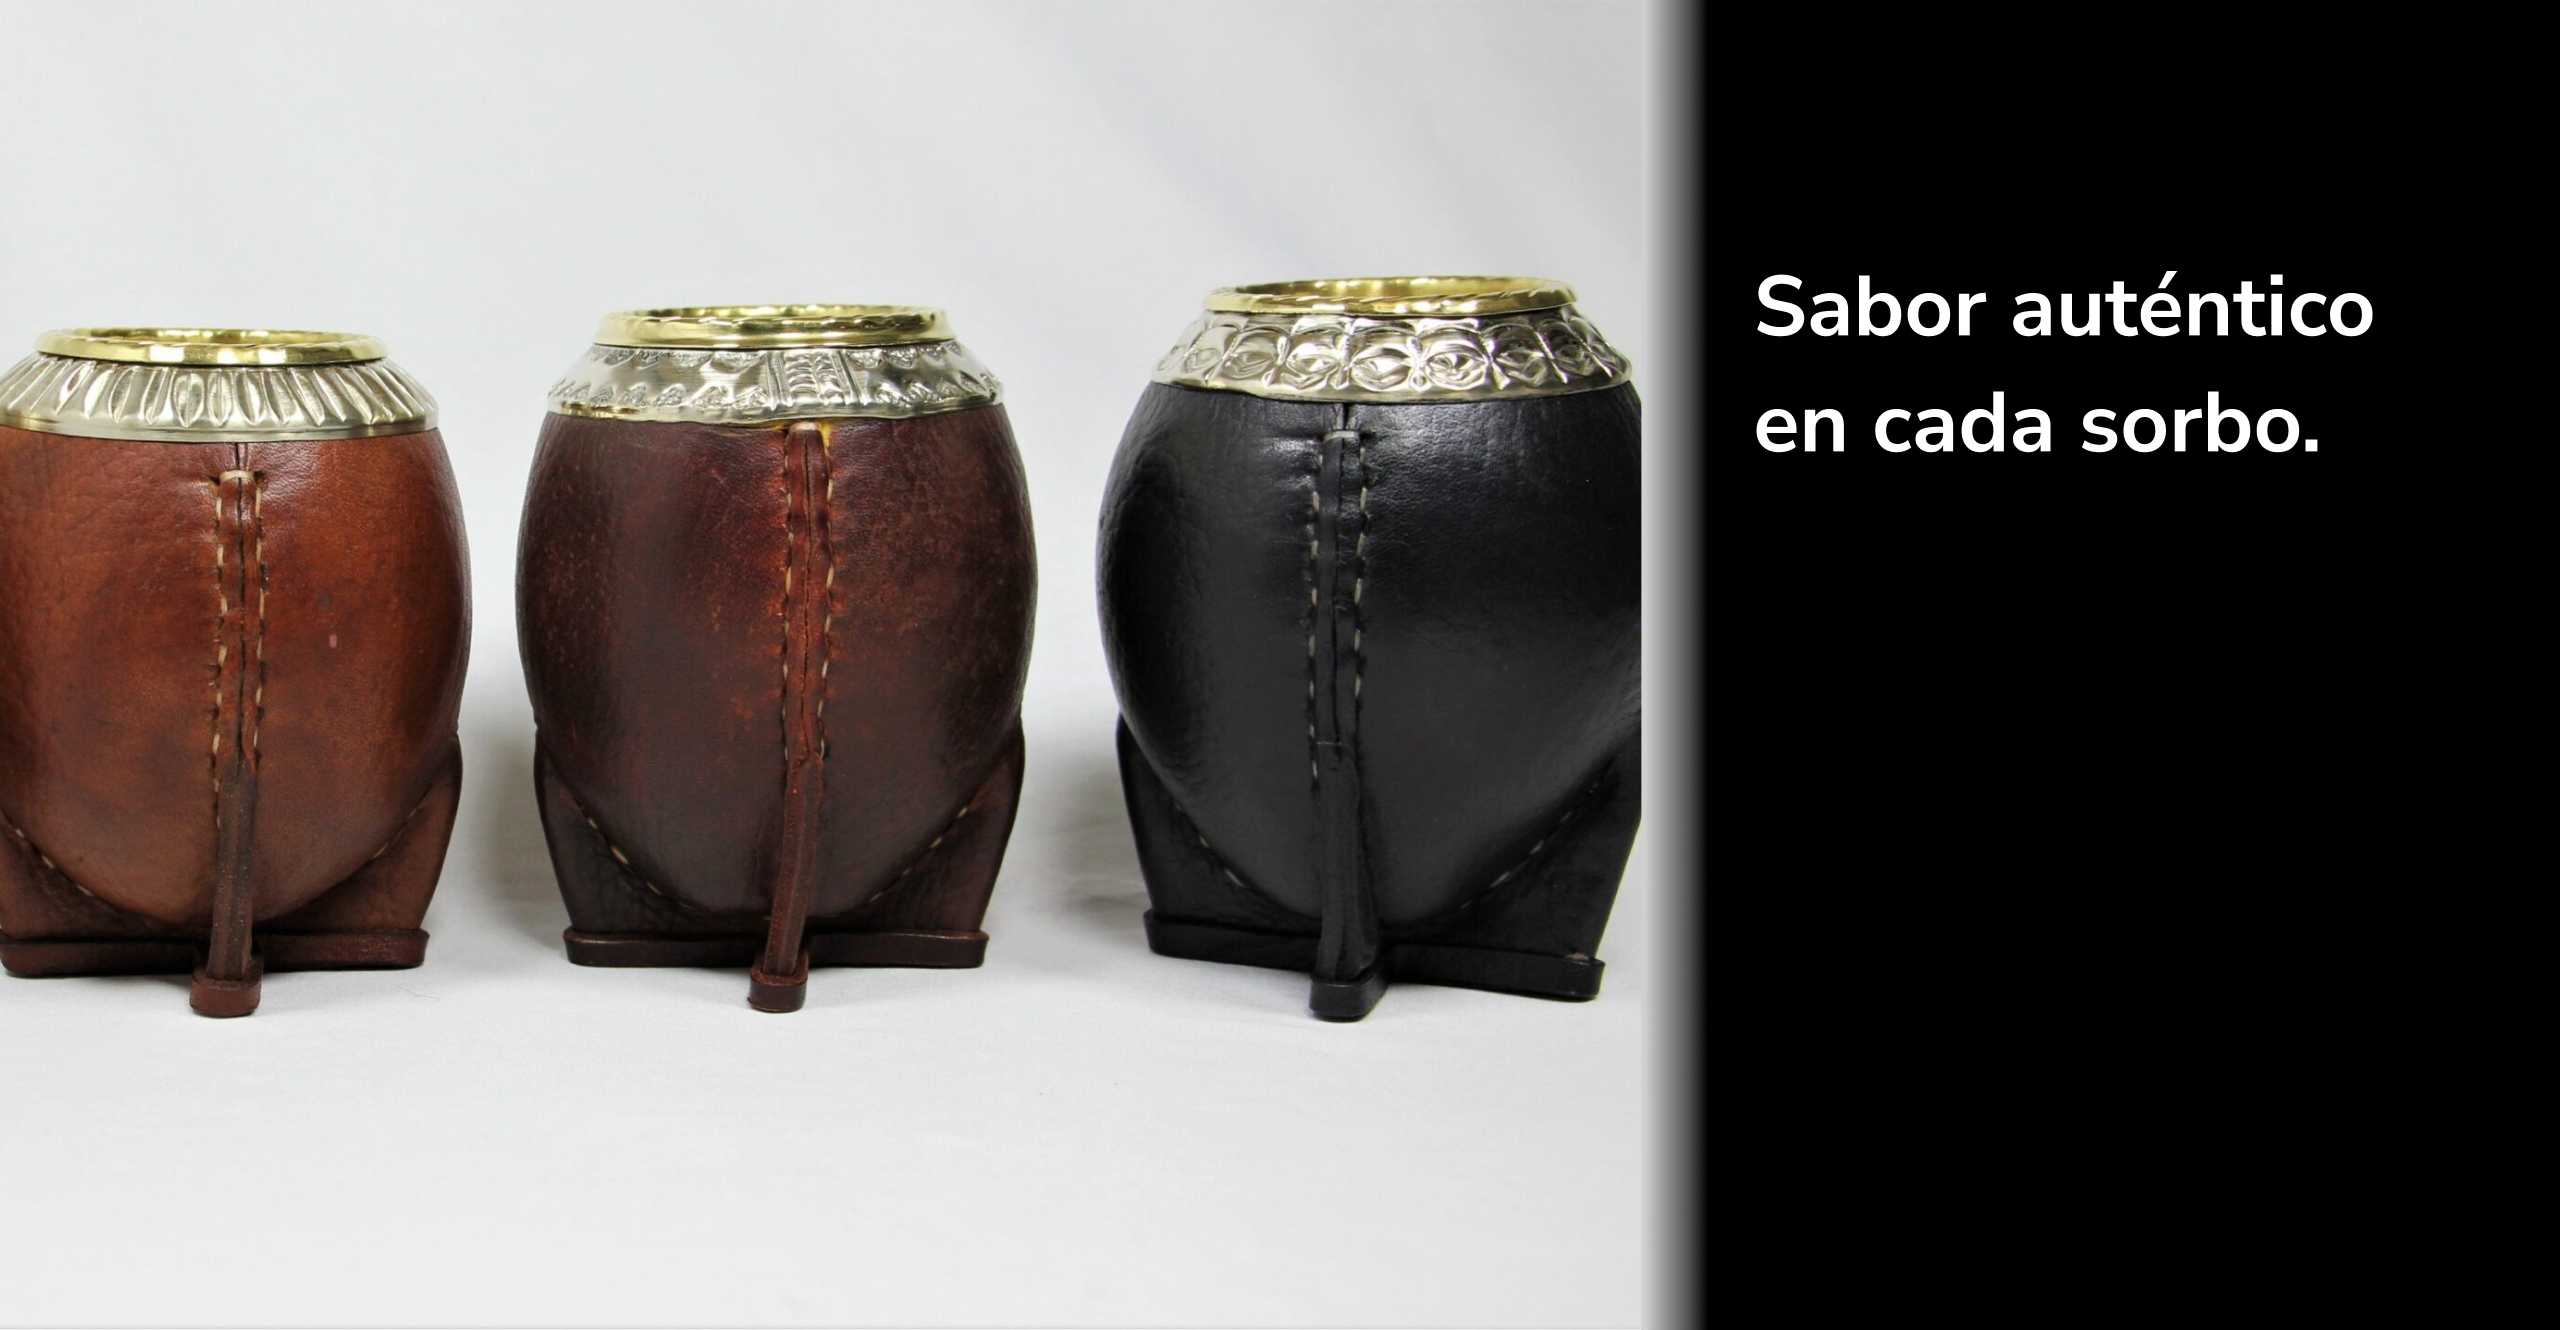
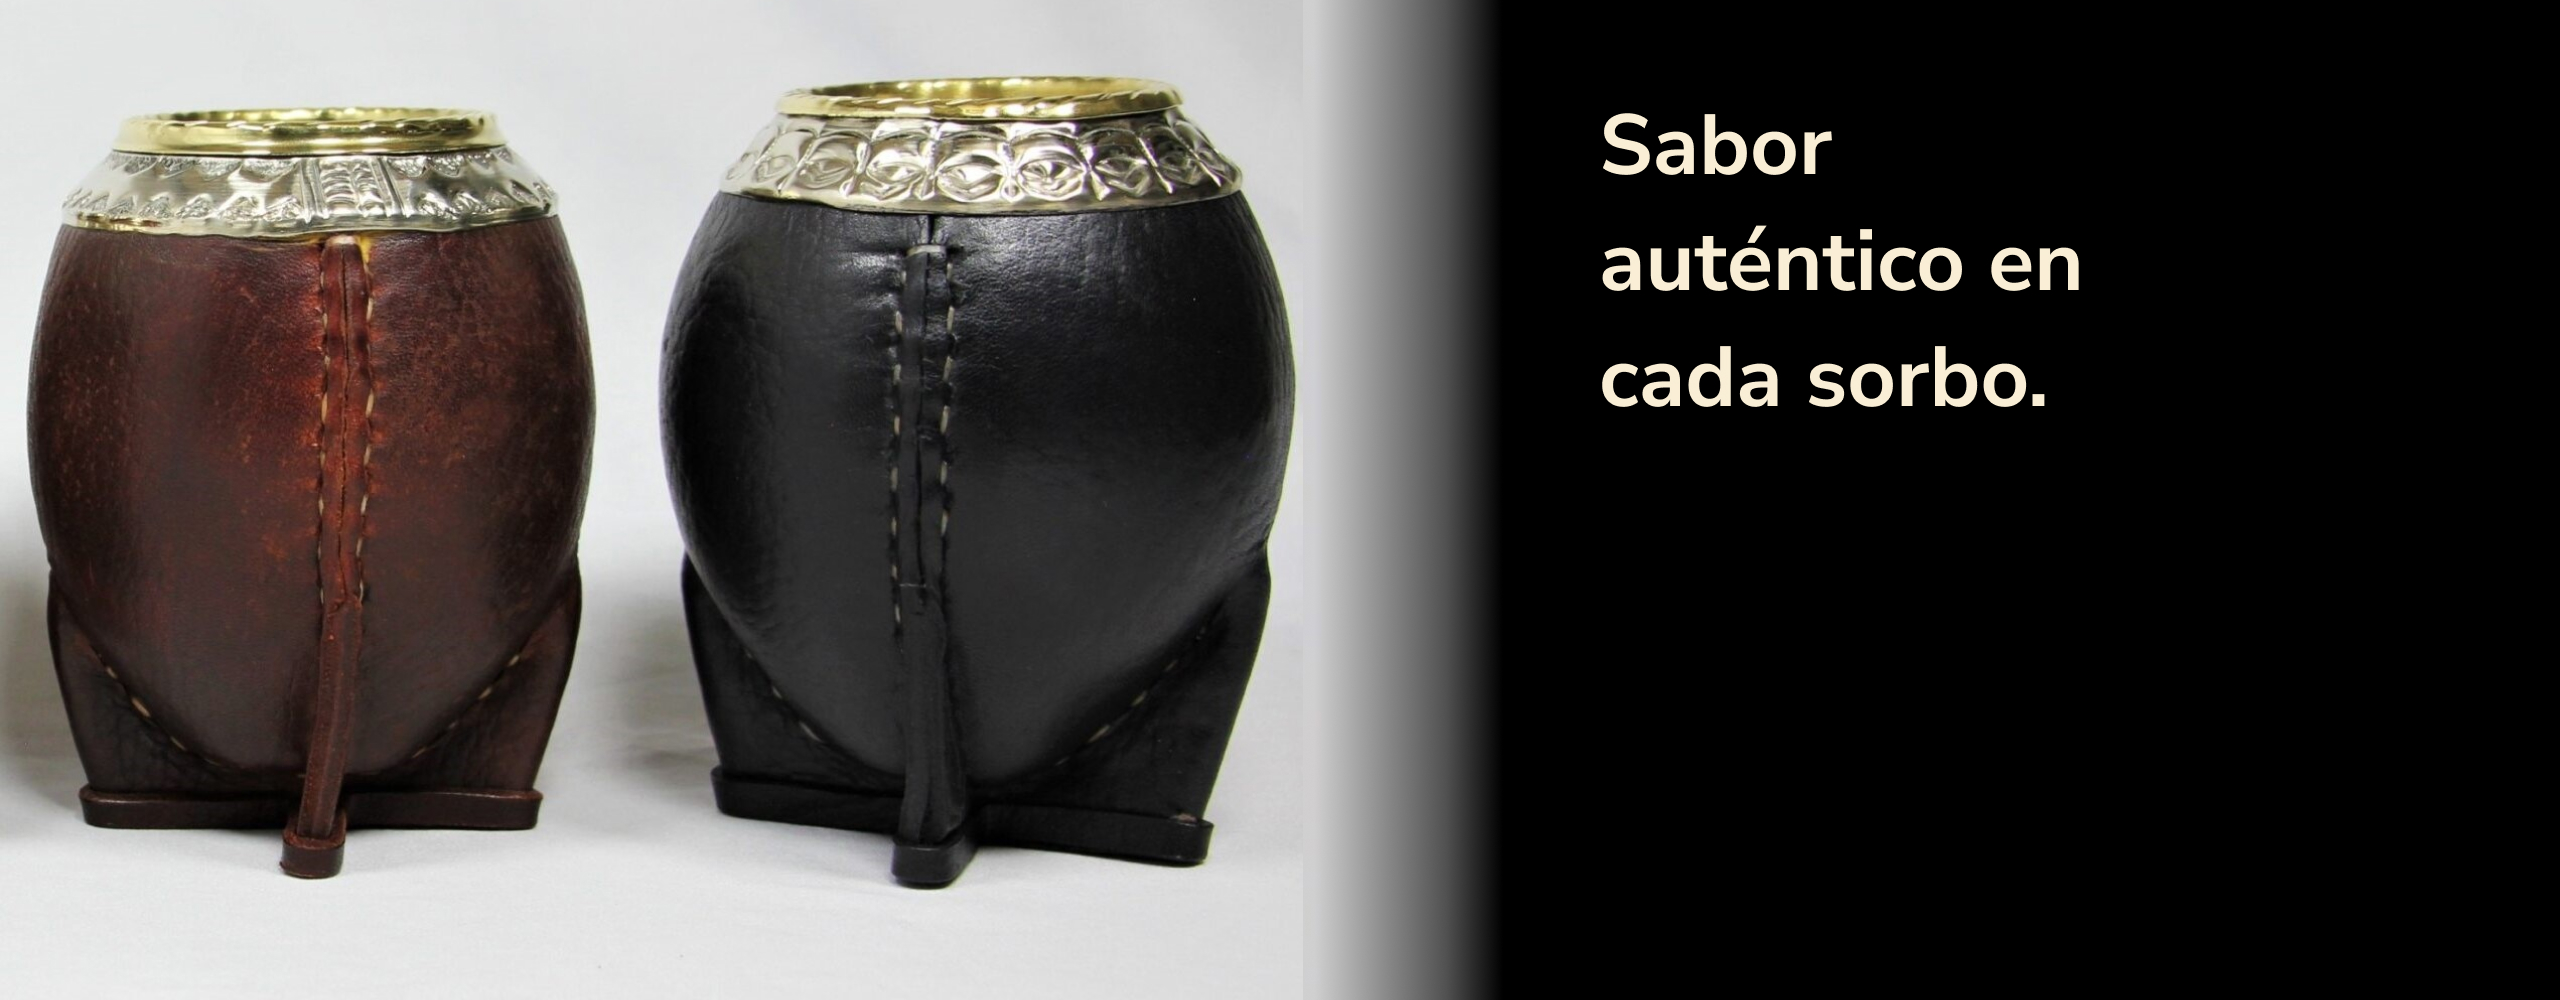
responsive design

diff --git a/src/components/Hero1/Hero1.jsx b/src/components/Hero1/Hero1.jsx
@@ -5,7 +5,7 @@ import Button from '../Button/Button';
 
 const Hero1 = () =>{
     return (
-      <Carousel interval={5000}>
+      <Carousel interval={5000000}>
         <Carousel.Item className='Hero1Container'>
           <img
             className="imgHero1"
@@ -13,20 +13,20 @@ const Hero1 = () =>{
             alt="First-slide"
           />
           <Carousel.Caption className='HeroCaption'>
-            <Button label='Ver Productos' to='/productos' />
+            <Button label='Comprar' to='/productos' />
           </Carousel.Caption>
         </Carousel.Item> 
         
-        {/* <Carousel.Item className='Hero1Container hero2'>
+        <Carousel.Item className='Hero1Container'>
           <img
             className="imgHero1"
-            src='https://firebasestorage.googleapis.com/v0/b/termomelga.appspot.com/o/heros%2Fhero1.jpg?alt=media&token=73ac345e-bced-4dbc-a249-8dddd6877e17'
+            src='https://firebasestorage.googleapis.com/v0/b/termomelga.appspot.com/o/heros%2Fhero1.jpg?alt=media&token=a284a4d1-5920-4a8a-92d2-c72c868a86a2'
             alt="Second-slide"
           />
-          <Carousel.Caption className='HeroCaption'>
+          <Carousel.Caption className='HeroCaption hero3'>
             <Button label='Ver Mates' to='/categoria/mates'  />
           </Carousel.Caption>
-        </Carousel.Item>  */}
+        </Carousel.Item>
 
         <Carousel.Item className='Hero1Container'>
           <img
@@ -34,7 +34,7 @@ const Hero1 = () =>{
             src='https://firebasestorage.googleapis.com/v0/b/termomelga.appspot.com/o/heros%2Fhero2black.jpg?alt=media&token=197fcb10-b6bd-4afa-86eb-d56a98fbbac2'
             alt="Third-slide"
           />
-          <Carousel.Caption className='HeroCaption'>
+          <Carousel.Caption className='HeroCaption '>
             <Button label='Ver Yerbas' to='/categoria/yerbas'  />
           </Carousel.Caption>
         </Carousel.Item> 

diff --git a/src/components/Hero1/hero1.css b/src/components/Hero1/hero1.css
@@ -26,19 +26,27 @@
     margin: 0 auto;
     width: 100%;
 }
-.imgHero3{
-    filter: brightness(.8)
+.hero3{
+    position: absolute;
+    top: 250px;
+    margin-left: 40%;
 }
 
 @media (max-width: 1200px ){
     .Hero1Container{
         height: 68vh
     }
-    
+    .hero3{
+        top: 200px;
+        margin-left: 43%;
+    }
 }
 @media (max-width: 1050px ){
     .Hero1Container{
         height: 60vh
+    }
+    .hero3{
+        top: 130px;
     }
     
 }
@@ -49,12 +57,15 @@
     .slide .carousel-control-prev,.slide .carousel-control-next{
         display: none;
     }
-
+    .hero3{
+        top: 80px;
+    }
 }
 @media screen and (max-width: 550px) {
     .Hero1Container{
-        height: 26vh
+        height: 23vh
     }
+    
     
 }
 

diff --git a/src/components/AddtoCartBtn.js/addToCartIcon.css b/src/components/AddtoCartBtn.js/addToCartIcon.css
@@ -12,7 +12,7 @@
     width: 160px;
     height: 50px;
     background-color: #2b2b2b; 
-    color: #ffffff;
+    color: #f9eed6;
     border: none;
     font-size: 1em;
     font-weight: bold;
@@ -28,9 +28,9 @@
    }
 @media (max-width: 800px ){
     .Button{
-        font-size: 0.8em;
+        font-size: 0.7em;
         height: auto;
-        width: 100px;
+        width: 90px;
         }
 
    }

diff --git a/src/components/Button/button.css b/src/components/Button/button.css
@@ -26,7 +26,7 @@
    }
 @media (max-width: 800px ){
     .Button{
-        font-size: 0.8em;
+        font-size: 0.7em;
         height: auto;
         width: 100px;
         }
